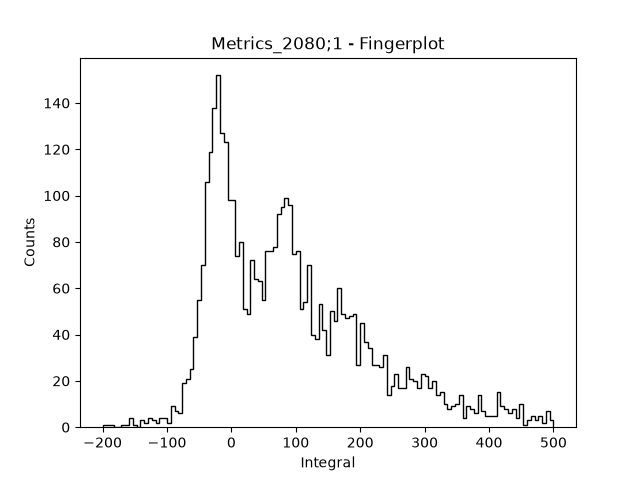
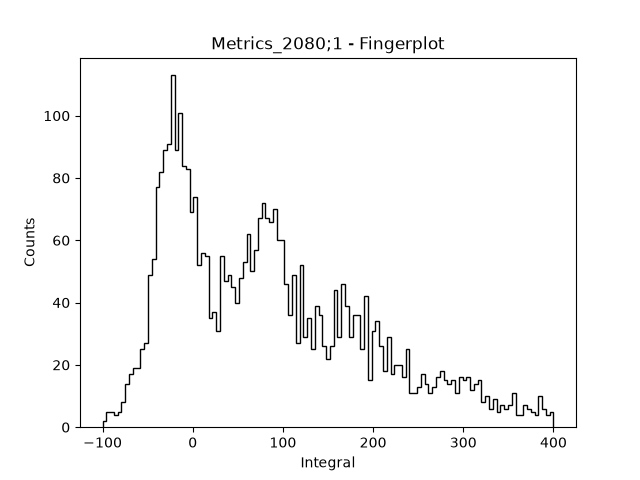
[ADD] Small Improvements and V1 for SPE template for deconvolution

diff --git a/calib/fit_fingerplot.py b/calib/fit_fingerplot.py
@@ -16,16 +16,20 @@ def fit_multigauss(f, run):
     os.makedirs(f"PLOTS/fingerplot/{run}/", exist_ok=True)
     os.makedirs(f"PLOTS/multigauss/{run}/", exist_ok=True)
 
-    for i in range(len(f.keys())):
-        integral = f[f.keys()[i]]["integral"].array(library="np")
+    minuit_results = []
+
+    keys = fc.latest_cycle_keys(f)
+
+    for key in keys:
+        integral = f[key]["integral"].array(library="np")
 
         # Raw fingerplot
-        x_bin = np.linspace(-200, 500, 120)
+        x_bin = np.linspace(-100, 400, 120)
         plt.hist(integral, bins=x_bin, histtype='step', color='black')
-        plt.title(f"{f.keys()[i]} - Fingerplot")
+        plt.title(f"{key} - Fingerplot")
         plt.xlabel("Integral")
         plt.ylabel("Counts")
-        plt.savefig(f"PLOTS/fingerplot/{run}/{f.keys()[i]}_fingerplot.png")
+        plt.savefig(f"PLOTS/fingerplot/{run}/{key}_fingerplot.png")
         plt.close()
 
         # Multigauss fingerplot
@@ -40,22 +44,25 @@ def fit_multigauss(f, run):
         "A0": 140  ,
         "q0": -30 ,
         "sigma0": 20,
-        "gain":  100 ,
-        "sigma1": 10,
-        "sigma2": 20,
-        "sigma3": 30,
-        "sigma4": 40,
-        "sigma5": 50,
+        "gain":  150 ,
+        "sigma1": 50,
+        "sigma2": 50,
+        "sigma3": 50,
         "A1": 90 ,
         "A2": 60,
         "A3": 20 ,
-        "A4": 10,
-        "A5": 5 ,
         }
 
         # minuit fit
         m = Minuit(model, **initial_guesses)
-        #m.interactive()
+
+        # keep the fit from wandering into unphysical local minima
+        for a in ("A0", "A1", "A2", "A3"):
+            m.limits[a] = (0, None)
+        for s in ("sigma0", "sigma1", "sigma2", "sigma3"):
+            m.limits[s] = (0, 50)
+
+        m.interactive()
         m.migrad()
         m.hesse()
 
@@ -74,11 +81,11 @@ def fit_multigauss(f, run):
 
         plt.errorbar(centers, counts, yerr=y_err, fmt='.', color='black', label='data')
         plt.plot(x_curve, y_curve, '-', color='red', label=label_fit)
-        plt.title(f"{f.keys()[i]} - Multigauss")
+        plt.title(f"{key} - Multigauss")
         plt.xlabel("Integral")
         plt.ylabel("Counts")
         plt.legend()
-        plt.savefig(f"PLOTS/multigauss/{run}/{f.keys()[i]}_multigauss.png")
+        plt.savefig(f"PLOTS/multigauss/{run}/{key}_multigauss.png")
         plt.close()
 
         # # crosstalk trial
@@ -92,7 +99,7 @@ def fit_multigauss(f, run):
         # plt.savefig(f"PLOTS/ct/trial_ct_{f.keys()[i]}.png")
         # plt.close()
 
-        print(f"{f.keys()[i]}: Multigauss Fitted")
+        print(f"{key}: Multigauss Fitted")
         print(f"Nsamples = {len(integral)}")
         print(rf"SPE = {spe:.1f} +/- {spe_err:.1f}")
         print(rf"chi^2/ndf = {spe:.1f}")
@@ -101,6 +108,7 @@ def fit_multigauss(f, run):
 
         mean_spe.append(spe)
         std_spe.append(spe_err)
+        minuit_results.append(m)
 
-    return mean_spe, std_spe
+    return mean_spe, std_spe, minuit_results
 

diff --git a/calib/deconv_template.py b/calib/deconv_template.py
@@ -1,0 +1,54 @@
+import uproot
+import numpy as np
+import matplotlib.pyplot as plt
+from iminuit import Minuit
+from iminuit.cost import LeastSquares
+import aux.functions as fc
+import os
+
+
+def deconv_template(f, m, run):
+    templates = []
+
+    keys = fc.latest_cycle_keys(f)
+
+    for i, key in enumerate(keys):
+        integral = f[key]["integral"].array(library="np")
+
+        q0 = m[i].values["q0"]
+        gain = m[i].values["gain"]
+        sigma1 = m[i].values["sigma1"]
+        center = q0 + gain
+
+        sel = (integral > center - sigma1) & (integral < center + sigma1)
+
+        wf = f[key]["wf_nobaseline"].array(library="np")
+        wf_sel = np.stack(wf[sel])
+
+        os.makedirs(f"PLOTS/deconv_template/{run}/", exist_ok=True)
+
+        # histograma 2D (persistencia) dos eventos selecionados, antes da media
+        n_events, n_samples = wf_sel.shape
+        x = np.tile(np.arange(n_samples), n_events)
+        y = wf_sel.flatten()
+
+        plt.hist2d(x, y, bins=[n_samples, 250], range=[[0, n_samples], [-50, 200]],
+                    norm="log", cmap="viridis")
+        plt.colorbar(label="Counts")
+        plt.title(f"{key} - Selected waveforms (1 p.e.)")
+        plt.xlabel("Sample")
+        plt.ylabel("ADC - baseline")
+        plt.savefig(f"PLOTS/deconv_template/{run}/{key}_persistence.png")
+        plt.close()
+
+        template = wf_sel.mean(axis=0)
+        templates.append(template)
+
+        plt.plot(template)
+        plt.title(f"{key} - SPE Template")
+        plt.xlabel("Sample")
+        plt.ylabel("ADC - baseline")
+        plt.savefig(f"PLOTS/deconv_template/{run}/{key}_template.png")
+        plt.close()
+
+    return templates

diff --git a/calib/aux/functions.py b/calib/aux/functions.py
@@ -3,12 +3,30 @@ import numpy as np
 import matplotlib.pyplot as plt
 import math
 
+def latest_cycle_keys(f):
+    """Return f.keys() deduplicated to the highest ROOT cycle (';N') per base name.
+
+    ROOT files can end up with multiple stale cycles of the same TTree (e.g. a
+    producer re-run without the output file being properly recreated). uproot's
+    f.keys() returns every cycle, which silently double-processes such channels
+    downstream, so callers should iterate over this instead of f.keys() directly.
+    """
+    latest = {}
+    for key in f.keys():
+        base, _, cycle = key.rpartition(";")
+        if not base:
+            base, cycle = key, "0"
+        cycle = int(cycle)
+        if base not in latest or cycle > latest[base][1]:
+            latest[base] = (key, cycle)
+    return [key for key, _ in latest.values()]
+
 def multi_gauss(q, A0, q0, sigma0, gain,
-                        sigma1, sigma2, sigma3, sigma4, sigma5,
-                        A1, A2, A3, A4, A5):
+                        sigma1, sigma2, sigma3,
+                        A1, A2, A3):
     y      = A0 * np.exp(-0.5 * ((q - q0) / sigma0)**2)
-    sigmas = [sigma1, sigma2, sigma3, sigma4, sigma5]
-    amps   = [A1, A2, A3, A4, A5]
+    sigmas = [sigma1, sigma2, sigma3]
+    amps   = [A1, A2, A3]
     for n_idx, (An, sig) in enumerate(zip(amps, sigmas)):
         y += An * np.exp(-0.5 * ((q - (q0 + (n_idx + 1) * gain)) / sig)**2)
     return y

diff --git a/calib/read_waveforms.cpp b/calib/read_waveforms.cpp
@@ -30,7 +30,7 @@
  */
 
 
-const int CHANNELS[] = {2080, 2081};//, 2070, 2071};  
+const int CHANNELS[] = {2070, 2071};//, 2070, 2071};  
 const int NCH = sizeof(CHANNELS) / sizeof(CHANNELS[0]);
 
 int channel_index(unsigned int ch){
@@ -231,10 +231,14 @@ int main(){
     fraw->cd();
     for (int k = 0; k < NCH; k++) ch[k].traw->Write();
     fraw->Close();
+    delete fraw;   // not just Close(): a lingering TFile* left in gROOT's file list
+                   // can make a later RECREATE on the same path append a new TTree
+                   // cycle instead of truly overwriting it
 
     fsel->cd();
     for (int k = 0; k < NCH; k++) ch[k].tsel->Write();
     fsel->Close();
+    delete fsel;
 
     delete run_calib;
     return 0;

diff --git a/calib/main.py b/calib/main.py
@@ -4,7 +4,8 @@ import matplotlib.pyplot as plt
 from iminuit import Minuit
 from iminuit.cost import LeastSquares
 import aux.functions as fc   
-import fit_fingerplot as fg_fit   
+import fit_fingerplot as fg_fit
+import deconv_template as deconv   
 import plot_pehist as pl_pe
 
 run = str(input("Enter run number: "))
@@ -14,7 +15,7 @@ filename = ".roots/" + "metrics_select/run" + run + "_metrics_select.root"
 f = uproot.open(filename)
 
 # fingerplot multigauss fit
-mean_spe, std_spe = fg_fit.fit_multigauss(f, run)
+mean_spe, std_spe, m = fg_fit.fit_multigauss(f, run)
 
-# # plot channel PE 2d histogram\
-# pl_pe.plot_PE_2dhist(f, mean_spe)
+# create deconvolution template
+templates = deconv.deconv_template(f, m, run)

diff --git a/calib/plot_pehist.py b/calib/plot_pehist.py
@@ -2,9 +2,10 @@ import matplotlib.pyplot as plt
 import numpy as np
 import awkward as ak
 from matplotlib.colors import LogNorm
+import aux.functions as fc
 
 def plot_PE_2dhist(f, mean_spe):
-    keys = list(f.keys())
+    keys = fc.latest_cycle_keys(f)
 
     for i, key in enumerate(keys):
         wfs = f[key]["wf_nobaseline"].array()
